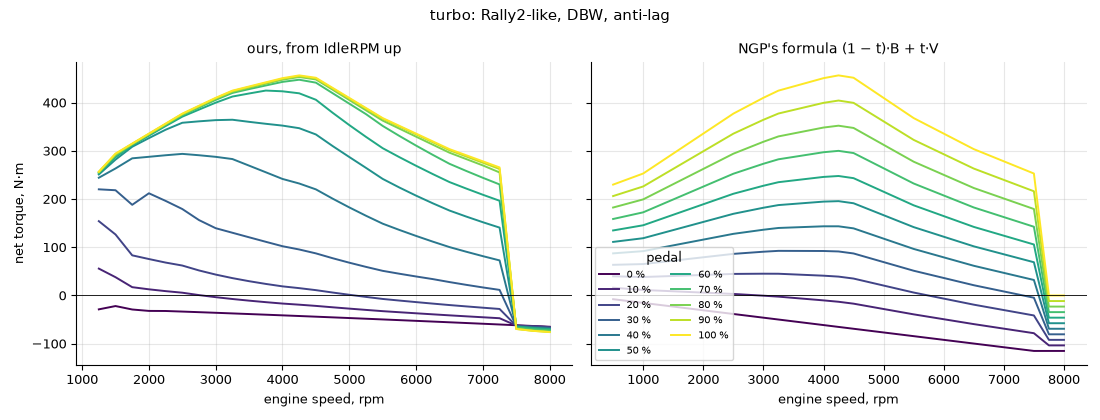
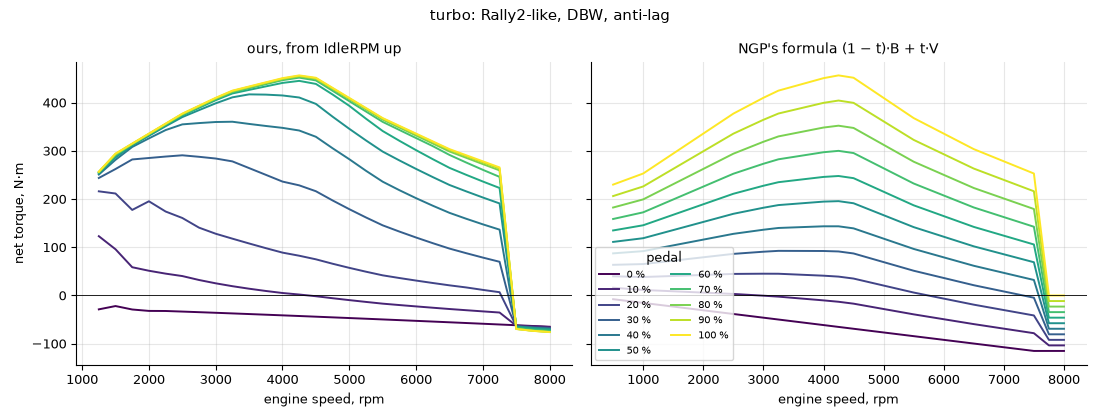
rbr-engine: drive-by-wire plate at the pedal (race ECUs' 1:1 start; pedal^1.3 was a street car's map); docs, figures and note with the light-pedal evidence

diff --git a/crates/rbr-engine/examples/plot.py b/crates/rbr-engine/examples/plot.py
@@ -3,7 +3,7 @@
 python3 -I plot.py DIR [car:litres ...]: a panel sheet per car, DIR/<car>.png.
 python3 -I plot.py --figures DIR OUT: the figures of docs/experimental-physics.md from the sample cars' CSVs.
 """
-import csv, sys, os, collections
+import csv, sys, os, collections, math
 import matplotlib
 matplotlib.use("Agg")
 import matplotlib.pyplot as plt
@@ -69,6 +69,8 @@ CARS = {"old": "old: Group 4 NA, cable, ITBs, idle stop", "na": "na: modern NA, 
 COLOURS = {"old": "#8c564b", "na": "#1f77b4", "turbo": "#d62728", "cable_turbo": "#ff7f0e", "ngp": "#555555"}
 # BeamNG 2023, read from the figure Torque-Throttle.png of https://beamng.com/game/news/blog/throttle-torque-curves/.
 BEAMNG = [(10, 49), (20, 65), (30, 76), (40, 84), (50, 91), (60, 95), (70, 98), (80, 99), (90, 100), (100, 100)]
+# The most power at each pedal, % of the 100 % line's 493 kW, read from the same post's Power-Throttle.png.
+BEAMNG_POWER = [(10, 9), (20, 25), (30, 43), (40, 57), (50, 69), (60, 80), (70, 89), (80, 94), (90, 98), (100, 100)]
 DT = 1.0 / 720.0
 
 
@@ -165,25 +167,33 @@ def figures(d, out):
         axes[1].legend(title="pedal", fontsize=7, ncol=2, loc="lower left")
         save(fig, f"torque-by-pedal-{car}.png")
 
-    # 2. The most net torque over rpm at each pedal, as a share of MaxTorque.
-    fig, ax = plt.subplots(figsize=(11, 4.6))
-    shares = {}
+    # 2. The most net torque and power over rpm at each pedal, as shares of the full pedal's.
+    fig, axes = plt.subplots(1, 2, figsize=(12, 4.8))
+    shares, powers = {}, {}
     for car, (st, _, p) in data.items():
-        pts = []
+        pts, pws = [], []
+        kw = lambda r, key: r[key] * r["rpm"] * math.pi / 30.0
+        top = {key: max(kw(r, key) for r in st if r["pedal"] == 1.0 and r["rpm"] >= p["idle"]) for key in ("torque", "ngp")}
         for q in sorted({r["pedal"] for r in st}):
             rows = [r for r in st if r["pedal"] == q and r["rpm"] >= p["idle"]]
             pts.append((q * 100, 100 * max(r["torque"] for r in rows) / p["max_torque"],
                         100 * max(r["ngp"] for r in rows) / p["max_torque"]))
-        shares[car] = pts
-        ax.plot([a for a, _, _ in pts], [b for _, b, _ in pts], "o-", color=COLOURS[car], label=f"ours, {car}")
-    first = next(iter(shares.values()))
-    ax.plot([a for a, _, _ in first], [c for _, _, c in first], "s--", color=COLOURS["ngp"],
-            label="NGP's formula (the same for every car)")
-    ax.plot([a for a, _ in BEAMNG], [b for _, b in BEAMNG], "^:", color="k", label="BeamNG 2023 (read from its figure)")
-    ax.plot([0, 100], [0, 100], color="#bbbbbb", lw=0.8, label="1:1")
-    style(ax, "pedal, %", "most net torque from IdleRPM up, % of MaxTorque", "Most torque at each pedal")
-    ax.set_xlim(0, 100)
-    ax.legend(fontsize=8)
+            pws.append((q * 100, 100 * max(kw(r, "torque") for r in rows) / top["torque"],
+                        100 * max(kw(r, "ngp") for r in rows) / top["ngp"]))
+        shares[car], powers[car] = pts, pws
+        for ax, v in zip(axes, (pts, pws)):
+            ax.plot([a for a, _, _ in v], [b for _, b, _ in v], "o-", color=COLOURS[car], label=f"ours, {car}")
+    for ax, v, beamng, what in ((axes[0], shares, BEAMNG, "torque, % of MaxTorque"),
+                                (axes[1], powers, BEAMNG_POWER, "power, % of the full pedal's")):
+        first = next(iter(v.values()))
+        ax.plot([a for a, _, _ in first], [c for _, _, c in first], "s--", color=COLOURS["ngp"],
+                label="NGP's formula (the first sample)")
+        ax.plot([a for a, _ in beamng], [b for _, b in beamng], "^:", color="k",
+                label="BeamNG 2023 (read from its figure)")
+        ax.plot([0, 100], [0, 100], color="#bbbbbb", lw=0.8, label="1:1")
+        style(ax, "pedal, %", f"most net {what}", f"Most {what.split(',')[0]} at each pedal, from IdleRPM up")
+        ax.set_xlim(0, 100)
+    axes[1].legend(fontsize=8)
     save(fig, "max-torque-by-pedal.png")
 
     # 3. Engine braking: closed pedal, ours against NGP's line B and rF2's SkipBarber scaled by displacement.
@@ -279,6 +289,9 @@ def figures(d, out):
         print(path)
     print("\nmost net torque by pedal, % of MaxTorque (ours per car; NGP):")
     for car, pts in shares.items():
+        print(car, " ".join(f"{a:.0f}:{b:.0f}" for a, b, _ in pts), "| NGP", " ".join(f"{c:.0f}" for _, _, c in pts))
+    print("\nmost net power by pedal, % of the full pedal's (ours per car; NGP):")
+    for car, pts in powers.items():
         print(car, " ".join(f"{a:.0f}:{b:.0f}" for a, b, _ in pts), "| NGP", " ".join(f"{c:.0f}" for _, _, c in pts))
     print("\nclosed pedal, N·m at rpm: ours / NGP / rF2 scaled")
     for car, rows in braking.items():

diff --git a/crates/rbr-engine/src/engine.rs b/crates/rbr-engine/src/engine.rs
@@ -324,14 +324,12 @@ pub fn step(spec: &Spec, s: &mut State, x: &Step) -> Out {
     }
     let fuel = !(dfco || x.stalled || (x.limiter && rpm > spec.rpm_limit + ecu::LIMITER_FUEL));
 
-    // Throttle.
+    // Throttle: the plate at the pedal (a cable, or a race DBW's 1:1 translation); a progressive linkage on cable
+    // throttles per cylinder.
     let other = spec.leak + idle_air;
-    let mut target = match spec.class.actuation {
-        Actuation::Cable => match spec.class.intake {
-            Intake::Single => pedal,
-            Intake::PerCylinder => pow(pedal, 1.6),
-        },
-        Actuation::Dbw => pow(pedal, ecu::DBW_EXPONENT),
+    let mut target = match (spec.class.actuation, spec.class.intake) {
+        (Actuation::Cable, Intake::PerCylinder) => pow(pedal, 1.6),
+        _ => pedal,
     };
     if anti_lag {
         target = target.max(gas::plate_lift(ecu::ALS_AREA));

diff --git a/crates/rbr-engine/src/ecu.rs b/crates/rbr-engine/src/ecu.rs
@@ -35,8 +35,6 @@ pub const OVERRUN_P: f64 = 0.2;
 pub const OVERRUN_RPM: f64 = 3000.0;
 /// The overrun air's decay once the cut ends, s: a dashpot's or idle valve's hand-over to the idle loop (inferred).
 pub const OVERRUN_TAU: f64 = 0.5;
-/// DBW: throttle aim = pedal^1.3 (HPA webinar 138: 40 % pedal about 30 % throttle; inferred exponent through it).
-pub const DBW_EXPONENT: f64 = 1.3;
 /// Rev limiter, Link's convention: ignition cut 0 → 100 % over the 200 rpm below the limit, fuel cut from 100 rpm above
 /// it (Link G4+ control range 200 rpm, settling 100–150 rpm under the limit, hard cut +50 to +200; HPA webinars 084 and
 /// 171), so RPMLimit is the cap, as NGP and the class rules read it.

diff --git a/docs/experimental-physics.md b/docs/experimental-physics.md
@@ -109,17 +109,19 @@ pedal ──► ECU ──► throttle plate ──► intake manifold ──►
 A cable car's plate follows the pedal. A car with a throttle per cylinder (carburettor chokes, slides, individual
 throttle bodies) has a progressive linkage, plate = pedal^1.6.
 
-A drive-by-wire car maps the pedal to a plate position, pedal^1.3, and the throttle motor follows it with a 30 ms lag
-and needs at least 40 ms for full travel. Rally ECUs work by position. Life Racing (M-Sport's R5 and Rally2 cars),
-MoTeC, Link, Haltech and Marelli all map pedal to throttle position, and HP Academy's typical calibration sits below
-one to one, 40 % pedal giving about 30 % throttle. pedal^1.3 passes through that point. Torque-request pedals belong
-to road cars' Bosch ME7 and to F1.
+A drive-by-wire car's plate also follows the pedal, through a throttle motor with a 30 ms lag that needs at least
+40 ms for full travel. Race ECUs work by position. Life Racing (M-Sport's R5 and Rally2 cars), MoTeC, Link, Haltech
+and Marelli all map pedal to throttle position through a table. Link's and Haltech's tables start at one to one.
+MoTeC M1 aims at a share of the airflow, which opens the plate more than the pedal at small openings. No rally team's
+map is public, so ours is the one to one start. Torque-request pedals belong to road cars' Bosch ME7 and to F1.
 
 The ECU's idle air adds to the plate's aim and anti-lag's kick overrides it. Blips and shift cuts still come from
 NGP's control unit through the throttle it passes on.
 
 The plate's open area grows as `1 − cos θ / cos 7°`, from 7° closed to 90° open (US 6591667). At 10 % of its travel a
-plate opens about 3 % of its area, at 30 % about 14 %, at 50 % about 33 %.
+plate opens about 3 % of its area, at 30 % about 14 %, at 50 % about 33 %. The same patent's flow bench gives a
+discharge coefficient of 0.70–0.77 at small openings, a few percent under our 0.8, and a leak of about 5 mm² that we
+leave out. At light pedal the two about cancel.
 
 ### Manifold
 
@@ -309,7 +311,9 @@ How firm each part is:
 | Idle loops | MoTeC M1 and HP Academy idle setup; the reserve from an idle control paper (arXiv 2012.02859) and US 7418943 | manufacturer docs and papers; loop gains ours |
 | Overrun fuel cut | MSExtra, Hondata and tuner thresholds | tuner docs |
 | Rev limiter | Link G4+ limiter (HP Academy webinars 084 and 171) | tuner docs |
-| Pedal map | MoTeC, Link, Haltech, Life Racing and Marelli docs; HP Academy webinar 138 for 40 % → 30 % | manufacturer and tuner docs; the exponent is ours |
+| Pedal map | MoTeC, Link, Haltech, Life Racing and Marelli docs: position tables starting at one to one, MoTeC M1 by airflow | manufacturer and tuner docs; no rally map is public |
+| Plate flow at small openings | US 6591667's flow bench: C_D 0.70–0.77, a 5 mm² leak | measured, one 60 mm throttle |
+| Torque at part load | EPA's steady map of the 2013 Ford 1.6 EcoBoost: 27 % of its 100 kPa torque at 50 kPa (ours 28 % at 47 kPa) | measured, one road engine |
 | Boost aim by throttle | MoTeC M1 and Link boost aim tables (HP Academy courses) | tuner docs; where full aim starts is ours |
 | Class rules | FIA articles 254, 254A, 255, 255A, 260, 261; rallycars.com's restrictor list | regulations |
 | Turbo maps | generic normalised shapes, sized per car | inferred: no rally turbo map is public |
@@ -361,31 +365,55 @@ then fall, the shape BeamNG's 2016 and 2023 models are built to give. In ours it
 plate. On the old sample the power above the closed-throttle line stays at 9.8–10.1 kW from 3000 to 8000 rpm at
 10 % pedal, and at 36–38 kW at 20 %.
 
-![Most torque at each pedal](images/engine-model/max-torque-by-pedal.png)
+![Most torque and power at each pedal](images/engine-model/max-torque-by-pedal.png)
 
-The most net torque each pedal position gives at any rpm from idle up, as a share of peak torque:
+The most net power each pedal position gives at any rpm from idle up, as a share of the full pedal's:
 
 | Pedal | NGP | old | na | turbo | cable_turbo | BeamNG 2023 |
 | --- | --- | --- | --- | --- | --- | --- |
-| 10 % | 0–2 % | 26 % | 24 % | 12 % | 13 % | 49 % |
-| 20 % | 6–10 % | 46 % | 43 % | 34 % | 25 % | 65 % |
-| 30 % | 14–21 % | 63 % | 54 % | 48 % | 37 % | 76 % |
-| 40 % | 26–32 % | 81 % | 65 % | 64 % | 68 % | 84 % |
-| 50 % | 38–43 % | 93 % | 77 % | 79 % | 87 % | 91 % |
-| 60 % | 51–55 % | 97 % | 87 % | 92 % | 93 % | 95 % |
-| 70 % | 63–66 % | 98 % | 94 % | 97 % | 97 % | 98 % |
-| 80 % | 75–77 % | 98 % | 97 % | 99 % | 98 % | 99 % |
+| 10 % | 0–1 % | 5 % | 9 % | 8 % | 3 % | 9 % |
+| 20 % | 2–8 % | 18 % | 23 % | 20 % | 11 % | 25 % |
+| 30 % | 12–19 % | 43 % | 43 % | 47 % | 21 % | 43 % |
+| 40 % | 23–31 % | 74 % | 64 % | 72 % | 47 % | 57 % |
+| 50 % | 36–42 % | 91 % | 80 % | 87 % | 75 % | 69 % |
+| 60 % | 48–53 % | 97 % | 89 % | 97 % | 88 % | 80 % |
+| 70 % | 61–65 % | 99 % | 94 % | 98 % | 93 % | 89 % |
+| 80 % | 74–77 % | 99 % | 97 % | 99 % | 97 % | 94 % |
 
-BeamNG's values are read from its published plot. The NGP column spans the four samples.
+And the most net torque, as a share of peak torque:
 
-Ours sits between the two and closer to BeamNG. Below 30 % pedal it gives clearly less than BeamNG's curve. Two
-things in ours cause that, both from the hardware. A butterfly at 10 % of its travel opens only about 3 % of its area,
-and the rally ECUs' pedal maps sit below one to one. BeamNG's post gives no measured data behind its curve, and we have
-no measured part-throttle map of a rally engine to settle it.
+| Pedal | NGP | old | na | turbo | cable_turbo | BeamNG 2023 |
+| --- | --- | --- | --- | --- | --- | --- |
+| 10 % | 0–2 % | 26 % | 40 % | 27 % | 13 % | 49 % |
+| 20 % | 6–10 % | 46 % | 53 % | 47 % | 25 % | 65 % |
+| 30 % | 14–21 % | 63 % | 65 % | 63 % | 37 % | 76 % |
+| 40 % | 26–32 % | 81 % | 76 % | 78 % | 68 % | 84 % |
+| 50 % | 38–43 % | 93 % | 86 % | 91 % | 87 % | 91 % |
+| 60 % | 51–55 % | 97 % | 92 % | 97 % | 93 % | 95 % |
+| 70 % | 63–66 % | 98 % | 96 % | 98 % | 97 % | 98 % |
+| 80 % | 75–77 % | 98 % | 98 % | 99 % | 98 % | 99 % |
 
-A light pedal at high rpm brakes in ours, since the air through a small opening sets the indicated power and friction
-and pumping take their share first. BeamNG's 10 % line stays at +25 N·m at 8500 rpm. Its plots may show torque before
-friction, and the post doesn't say.
+BeamNG's values are read from its published plots, and the NGP columns span the four samples. Power compares better:
+at light pedal the torque share mostly says how strong a car's full-throttle curve is near idle, where every light
+pedal line meets it.
+
+On power, the drive-by-wire samples follow BeamNG up to 30 % pedal and give more from 40 % up. Two samples give less at
+light pedal, for reasons in their hardware. The old car's throttles per cylinder sit on a progressive linkage. The
+cable turbo makes its full power on boost, and at light pedal it is an NA engine until the turbo spins. BeamNG scales
+power with the pedal whatever the turbo does.
+
+An earlier version mapped the drive-by-wire pedal as pedal^1.3, from HP Academy's drive-by-wire webinar (40 % pedal,
+about 30 % throttle), and gave about half BeamNG's power at 10–20 % pedal. That calibration is a Haltech on a street
+Nissan 350Z, shaped to hold a steady speed on the road. The rest of the chain checks out against measurements: the
+plate flow above, and EPA's steady map of the 2013 Ford 1.6 EcoBoost, which makes 27 % of its 100 kPa torque at
+50 kPa of manifold pressure where ours makes 28 % at 47 kPa.
+
+BeamNG's curve isn't measured data either. Niels Heusinkveld, whose research the post credits, measured other sims,
+not cars. Of the chart behind his proposed shape he says it "might also be completely fictional". Forum readings of
+BeamNG's engine code have it apply friction and engine braking apart from these curves, so the plotted lines are most
+likely torque before friction. Net, its 10 % line would brake at 8500 rpm, as ours does, since the air through a small
+opening sets the indicated power and friction and pumping take their share first. Its power plot's 0 % line repeats
+the torque plot's values on the kW axis.
 
 ### Engine braking
 
@@ -448,14 +476,15 @@ the limit to 20 over it.
 ### In game
 
 The autopilot drove each of four RallySimFans cars on stage track-11_O for 600 s, once with NGP 7's physics and once
-with the experimental physics. Three of them are the cars the samples are modelled on. "Over the limit" is the time the
+with the experimental physics. Three of them are the cars the samples are modelled on. Only the Fiesta has
+drive-by-wire, and its experimental run is with the one to one pedal map. "Over the limit" is the time the
 engine spent above `RPMLimit`. "Slip" is the time in gear, above 3 m/s, with the engine more than 3 % above the speed
 the gear gives with the clutch engaged, out of about 590 s in gear.
 
 | Car | Physics | Split 2 | Highest rpm over the limit | Over the limit | Slip |
 | --- | --- | --- | --- | --- | --- |
 | Fiesta Rally2 | NGP 7 | 442.63 s | +34 | 5.0 s | 3.3 s |
-| | experimental | 439.86 s | +34 | 0.3 s | 4.3 s |
+| | experimental | 436.20 s | +34 | 0.3 s | 4.1 s |
 | Celica ST185 | NGP 7 | 445.47 s | +25 | 5.4 s | 4.6 s |
 | | experimental | 438.02 s | −4 | 0 s | 5.5 s |
 | Golf II GTI 16V | NGP 7 | 466.95 s | +12 | 5.7 s | 6.0 s |
@@ -465,8 +494,8 @@ the gear gives with the clutch engaged, out of about 590 s in gear.
 
 No run stalled, and every run was still drivable at the end. The experimental limiter keeps every car under its limit
 in gear. The Fiesta's 0.3 s over is its start burnout in neutral. With the experimental physics the turbo cars reached
-split 2 0.6–1.7 % sooner and the NA cars 3.3–4.2 % sooner. The autopilot's caution sets most of its pace, and this is
-one stage and one run per car, so these gaps are not lap times a driver would see. The clutch slips 1–4 s longer per
+split 2 1.5–1.7 % sooner and the NA cars 3.3–4.2 % sooner. The autopilot's caution sets most of its pace, and this is
+one stage and one run per car, so these gaps are not lap times a driver would see. The clutch slips 0.8–4.4 s longer per
 run, and the engine's mean distance from the clutch-engaged speed stays at most 2.6 rad/s.
 
 ## Known limits
@@ -523,5 +552,8 @@ The full list, with the line each one supports, is in [notes/engine-model.md](..
 - FIA Article 255A (2016), WRC: https://www.fia.com/sites/default/files/255a_2016-corrected_16.12.2015.pdf
 - FIA Article 260 (2021), R1–R3, Rally3–5: https://www.fia.com/sites/default/files/260_2021_wmsc_2020.12.16.pdf
 - FIA Article 261 (2023), Rally2: https://www.fia.com/sites/default/files/261_2023.pdf
+- MoTeC M1 drive-by-wire, throttle aim as airflow (HP Academy): https://www.hpacademy.com/courses/motec-m1-software-tutorial/additional-functions-dbw-throttle/
+- EPA engine benchmarking, 2013 Ford 1.6 L EcoBoost steady map: https://www.epa.gov/vehicle-and-fuel-emissions-testing/benchmarking-advanced-low-emission-light-duty-vehicle-technology
 - BeamNG.drive, modelling part-throttle torque curves: https://beamng.com/game/news/blog/throttle-torque-curves/
 - Niels Heusinkveld, throttle models in sims: https://www.youtube.com/watch?v=0gW-cbSX3Uc
+- BeamNG engine braking and friction, a forum reading of its engine code: https://www.beamng.com/threads/engine-braking-calculations-wrong.94673/

diff --git a/notes/engine-model.md b/notes/engine-model.md
@@ -33,7 +33,10 @@ the doc comments. Each line gives its evidence: a source (list at the end), or "
 
 - Orifice flow with Ψ choked below 0.528 (generic) [NASA], [Andersson]; Ψ linear from Π 0.98 to 1 (inferred:
   a finite slope near equal pressures).
-- Plate area 1 − cos θ/cos 7°, θ = 7° + 83°·lift [US 6591667].
+- Plate area 1 − cos θ/cos 7°, θ = 7° + 83°·lift [US 6591667]. Its flow bench gives C_D 0.70–0.77 at 0–25° from
+  closed and a leak of about 5 mm² (60 mm bore); C_D 0.8 and no leak about cancel at light pedal.
+- Torque from MAP at part load checked against [EPA Ford 1.6]: the 2013 1.6 EcoBoost makes 27 % of its 100 kPa torque
+  at 50 kPa and none at 24–26 kPa (2500 rpm); the na sample 28 % at 47 kPa.
 - C_D 0.80 one throttle (inferred: fits are about 0.8 at WOT [C_D estimation]); 0.85 per cylinder (guess); at least
   45 mm per cylinder (guess).
 - Manifold 0.8·V_d one throttle, 0.3·V_d per cylinder, 1.0·V_d turbo, boost pipe 2.0·V_d (guess: ITBs have no
@@ -53,16 +56,23 @@ the doc comments. Each line gives its evidence: a source (list at the end), or "
 ## Throttle (`engine.rs`, `ecu.rs`)
 
 - Cable: lift = pedal, pedal^1.6 per cylinder (guess: progressive linkages), no lag.
-- DBW: plate aim = pedal^1.3, then the ETB (30 ms first order, 40 ms full travel) [Gorzelic]. Rally ECUs map pedal to
+- DBW: plate aim = pedal, then the ETB (30 ms first order, 40 ms full travel) [Gorzelic]. Race ECUs map pedal to
   throttle position (MoTeC, Link, Haltech, Life Racing on M-Sport R5, Marelli) [MoTeC DBW], [Link e-throttle],
-  [Haltech DBW], [Life Racing], [Marelli]; torque requests are road (ME7) and F1 [Bosch ME7], [F1 torque map].
-  The translation sits below 1:1, 40 % pedal → about 30 % throttle [HPA 138]; 1.3 is the exponent through that
-  point (inferred).
+  [Haltech DBW], [Life Racing], [Marelli]; torque requests are road (ME7) and F1 [Bosch ME7], [F1 torque map]. Their
+  translation tables start at 1:1 (Link, Haltech); MoTeC M1 aims at a share of airflow through its throttle area
+  table, which opens the plate more than 1:1 at small openings [HPA M1 DBW]. No rally map is public. HPA 138's 40 %
+  pedal → 30 % throttle (pedal^1.3, used before) is a Haltech street 350Z tuned to hold a steady speed [HPA 138]; with
+  it the DBW samples gave about half BeamNG's power at 10–20 % pedal.
 - The idle air adds to the aim; anti-lag's kick overrides it [MoTeC DBW]. Blips and shift cuts come through the
   interface's throttle (NGP's control unit).
 - Part throttle follows WOT to an rpm then falls at roughly constant power, as BeamNG's model [BeamNG throttle].
-  Peak net torque at pedal 10/20/30/50 %: na 24/43/54/77 %, turbo 12/34/48/79 %, old 26/46/63/93 %, cable_turbo
-  13/25/37/87 % of max (BeamNG 2023: 49/65/76/91 %).
+  Most net power from IdleRPM up at pedal 10/20/30/50 %, % of the WOT's: na 9/23/43/80, turbo 8/20/47/87, old
+  5/18/43/91, cable_turbo 3/11/21/75 (BeamNG 2023, its power plot: 9/25/43/69). Torque, % of MaxTorque: na
+  40/53/65/86, turbo 27/47/63/91, old 26/46/63/93, cable_turbo 13/25/37/87 (BeamNG 49/65/76/91).
+- BeamNG's curve is not measured: [Heusinkveld], whom the post credits, measured sims, and his proposed shape is a
+  chart that "might also be completely fictional". Its lines are most likely before friction and engine braking,
+  which its engine code applies apart [BeamNG friction] (inferred); its power plot's 0 % line repeats the torque
+  plot's values on the kW axis.
 
 ## Torque (`calibrate.rs`, `ecu.rs`)
 
@@ -202,7 +212,7 @@ the doc comments. Each line gives its evidence: a source (list at the end), or "
   (1500, off boost but under the median, so kept) → 1.3e6 (1750, on boost). At part pedal the boost is about the
   same at each speed, so torque follows K; at WOT the boost rises about 1.5 → 2.1 bar and covers it.
 - The spark loop saturates (gain about 2°/rpm). The limiter's torque swings each step (mean value per step).
-- DBW part pedal gives less torque than BeamNG's 2023 curves (table above).
+- No rally pedal map or measured part-throttle map of a race engine is public; the DBW 1:1 is the race ECUs' start.
 
 ## Sources
 
@@ -260,6 +270,10 @@ the doc comments. Each line gives its evidence: a source (list at the end), or "
 - HPA Link boost target (rpm × throttle): https://www.hpacademy.com/courses/link-g4-plus-software-tutorial/advanced-fuctions-closed-loop-boost-control/
 - HPA 138, DBW webinar: https://www.hpacademy.com/previous-webinars/138-tuning-drive-by-wire-throttle-control/
 - BeamNG throttle curves: https://beamng.com/game/news/blog/throttle-torque-curves/
+- Heusinkveld, sims' throttle models: https://www.youtube.com/watch?v=0gW-cbSX3Uc
+- BeamNG friction (forum reading of its engine code): https://www.beamng.com/threads/engine-braking-calculations-wrong.94673/
+- HPA M1 DBW (throttle aim as airflow): https://www.hpacademy.com/courses/motec-m1-software-tutorial/additional-functions-dbw-throttle/
+- EPA Ford 1.6 (steady map): https://www.epa.gov/vehicle-and-fuel-emissions-testing/benchmarking-advanced-low-emission-light-duty-vehicle-technology
 - Gorzelic 2012, throttle and wastegate: https://public.websites.umich.edu/~annastef/papers_hcci/Gorzelic2012ccdc.pdf
 - Gears Magazine, idle MAP 31 kPa: https://gearsmagazine.com/magazine/pressure-sensors/
 - MOTOR, idle 27 kPa: https://www.motor.com/magazine-summary/fuel-injection-diagnosis-july-2008/
